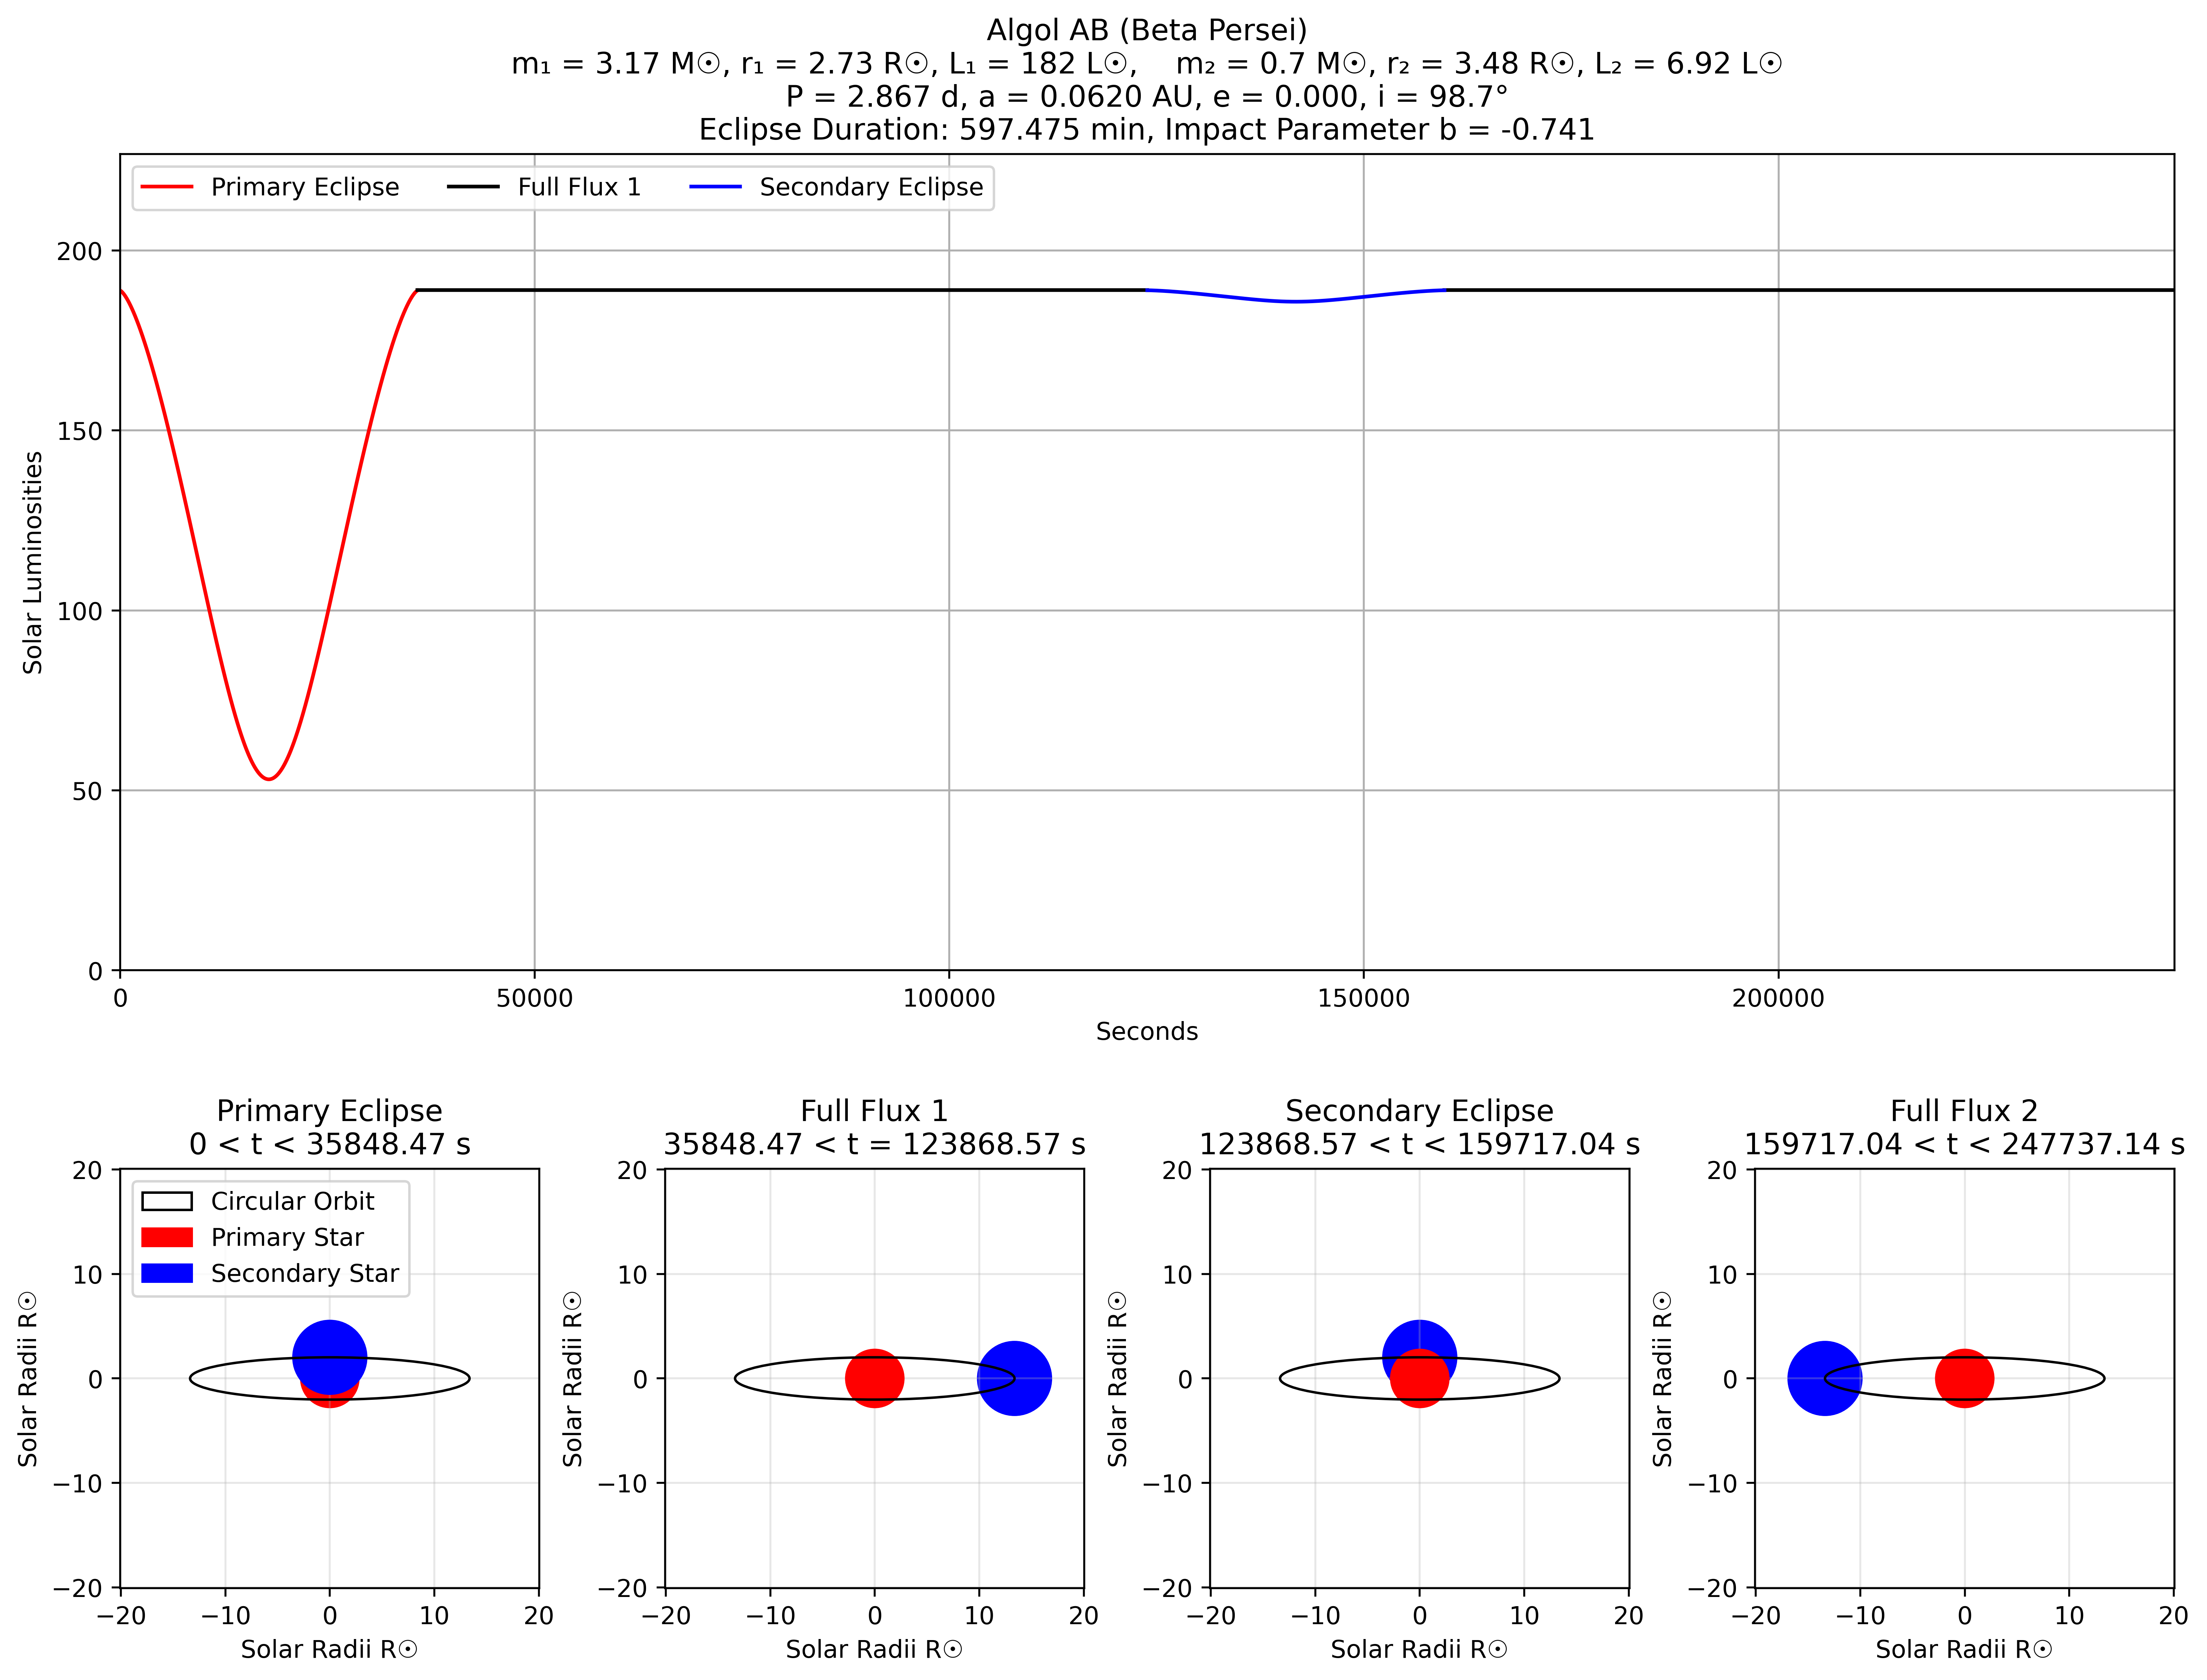
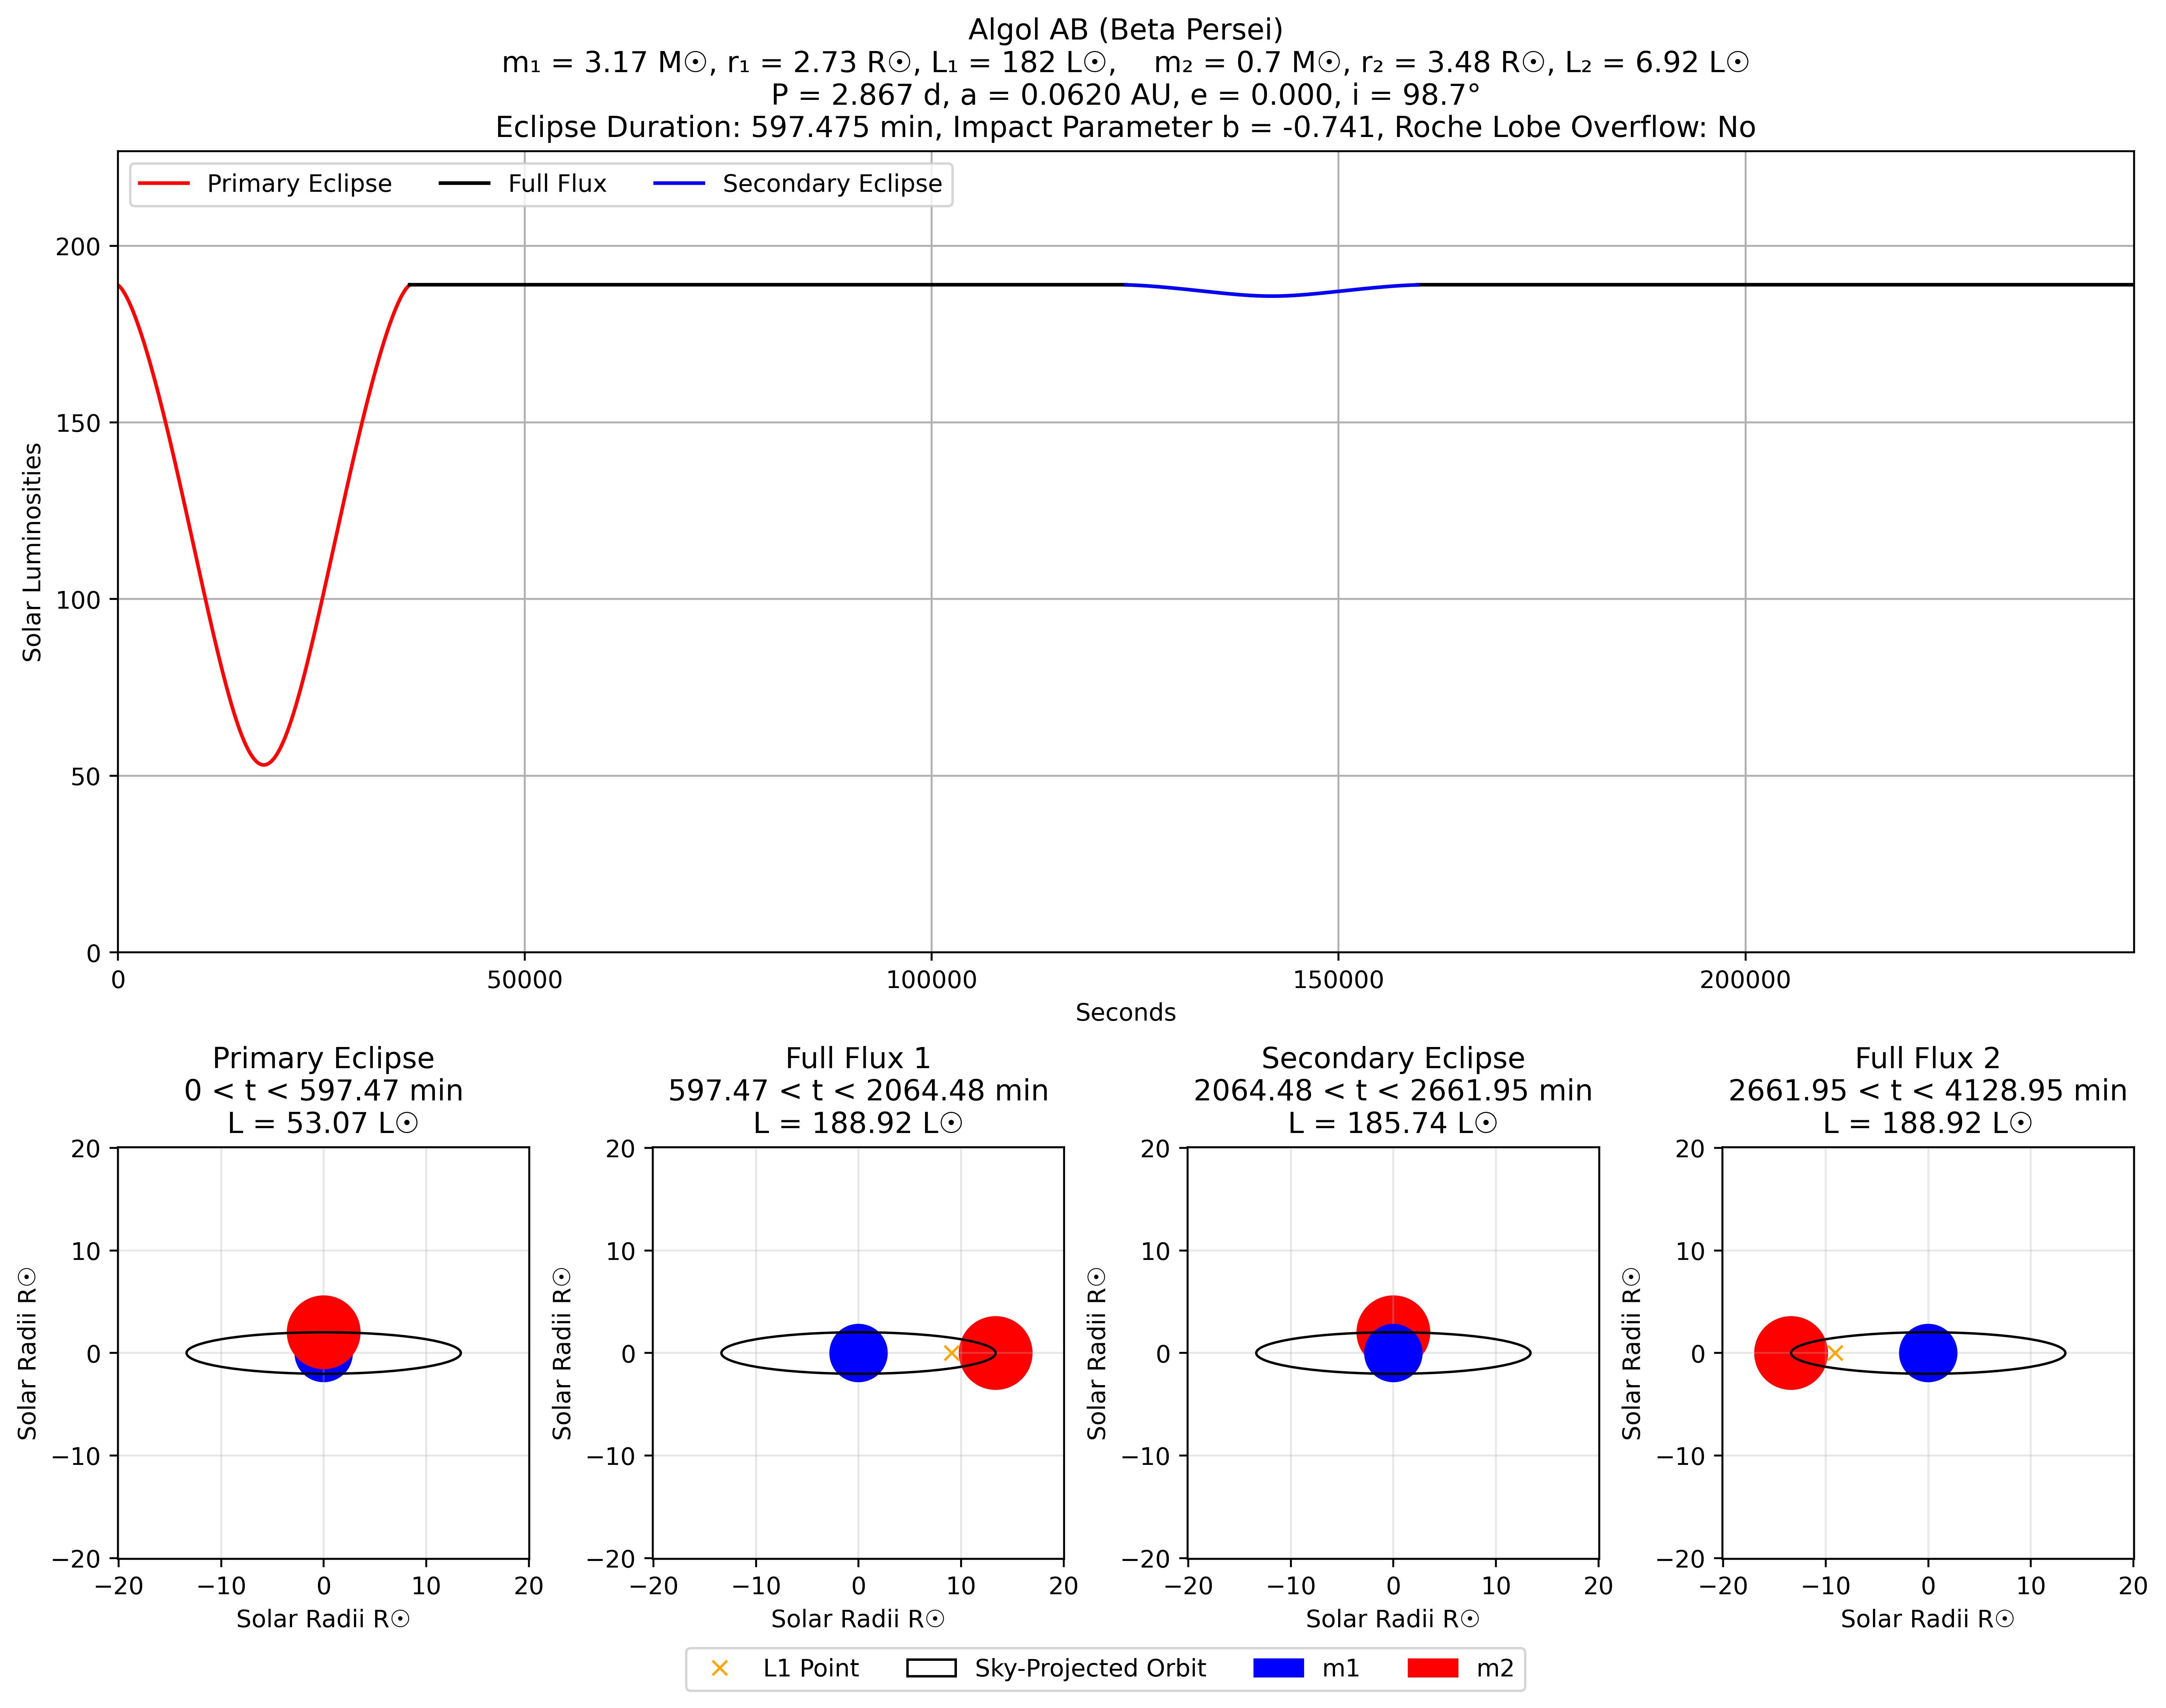
updated LC.py

diff --git a/projects.html b/projects.html
@@ -49,7 +49,7 @@
             <h1 class = "title">Eclipsing Binary Stars Simulator</h1>
             <p class = "title">Last Updated: 5/24/2026</p>
             <div style = "display: flex; justify-content: center;">
-                <p style = "margin-left: 50px; margin-right: 25px; font-size: 25px;">Simulates a light curve of eclipsing binary stars<br>Uses Matplotlib and NumPy<br><br><b>Input Variable Units</b><br>- Stellar Masses (m1, m2): Solar Masses<br>- Stellar Radii (r1, r2): Solar Radii<br>- Luminosities (L1, L2): Solar Luminosities<br>- Orbital Period: Days<br><br><b>Assumptions</b><br>- Uniform Luminosity Distribution (No limb darkening)<br>- Circular Orbit (e = 0)<br>- Celestial bodies m1 and m2 is perfectly spherical with projected areas being perfect circular</p>
+                <p style = "margin-left: 50px; margin-right: 25px; font-size: 25px;">Simulates a light curve of eclipsing binary stars<br>Uses Matplotlib and NumPy<br><br><b>Outputs</b><br>- Light Curve and Orbital Diagram<br>- Eclipse Luminosity and Duration<br>- Points of Contact<br>- Impact Parameter<br>- L1 Point (Roche Lobe Overflow)<br><br><b>Assumptions</b><br>- Uniform Luminosity Distribution (No limb darkening)<br>- Circular Orbit (e = 0)<br>- Celestial bodies m1 and m2 are spherical with circular projected areas</p>
                 <div>
                     
                     <div style = "display: flex; justify-content: center; gap: 30px;" >
@@ -58,7 +58,7 @@
                         
                     </div>
                     
-                    <img src = "images/other/binarycurve.png" alt = "Binary Simulator" width = "700" height = "513">
+                    <img src = "images/other/binarycurve.png" alt = "Binary Simulator" width = "700" height = "520">
                 </div>
                 
             </div>